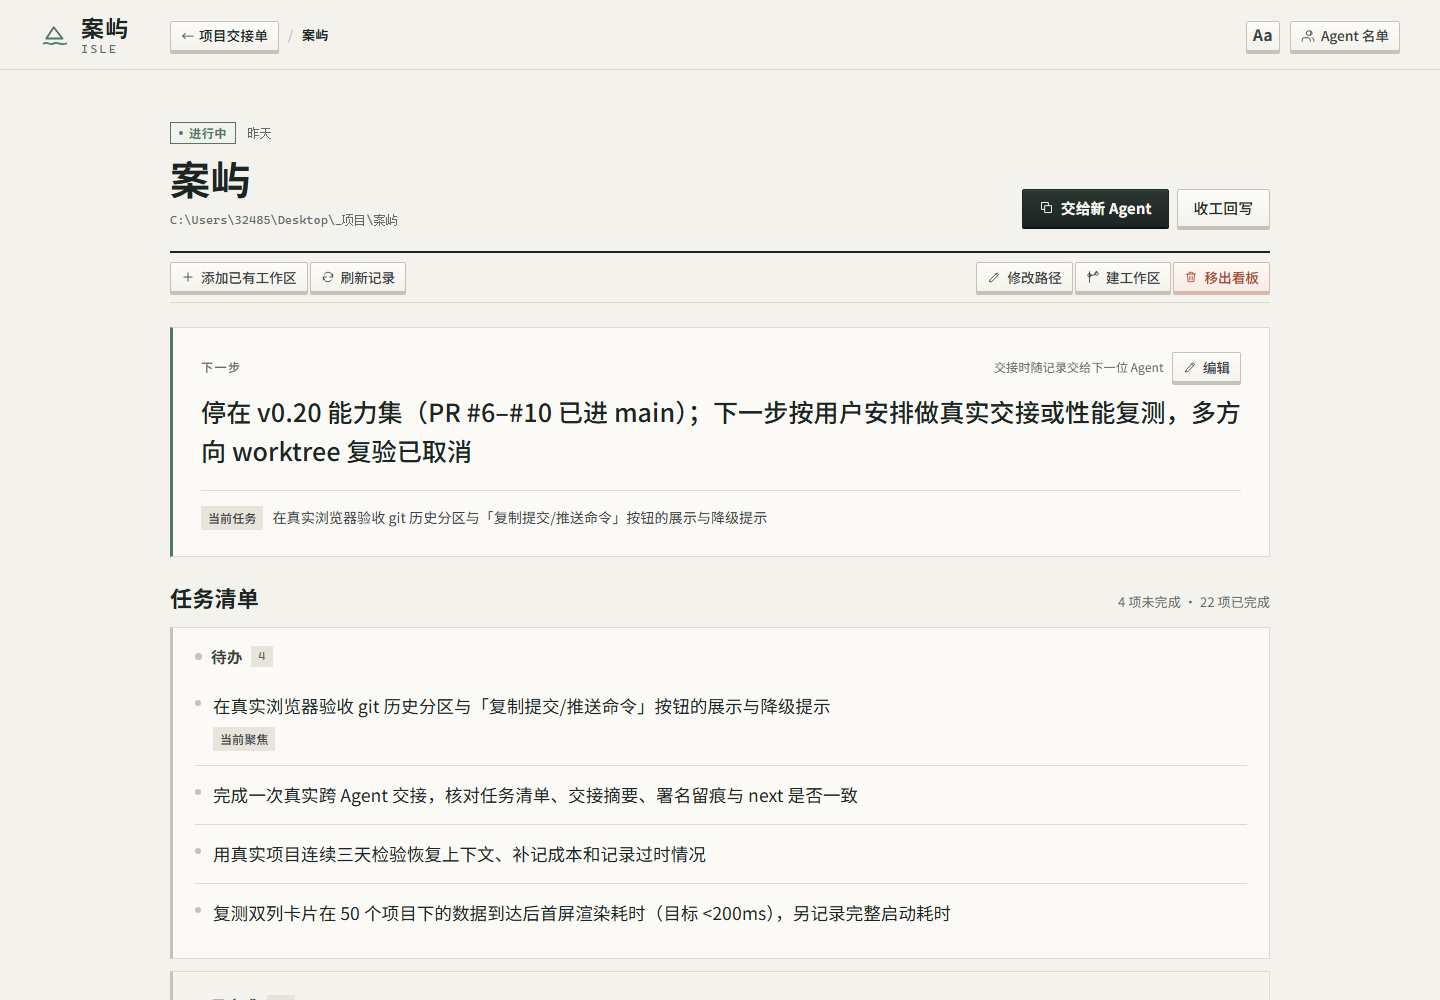
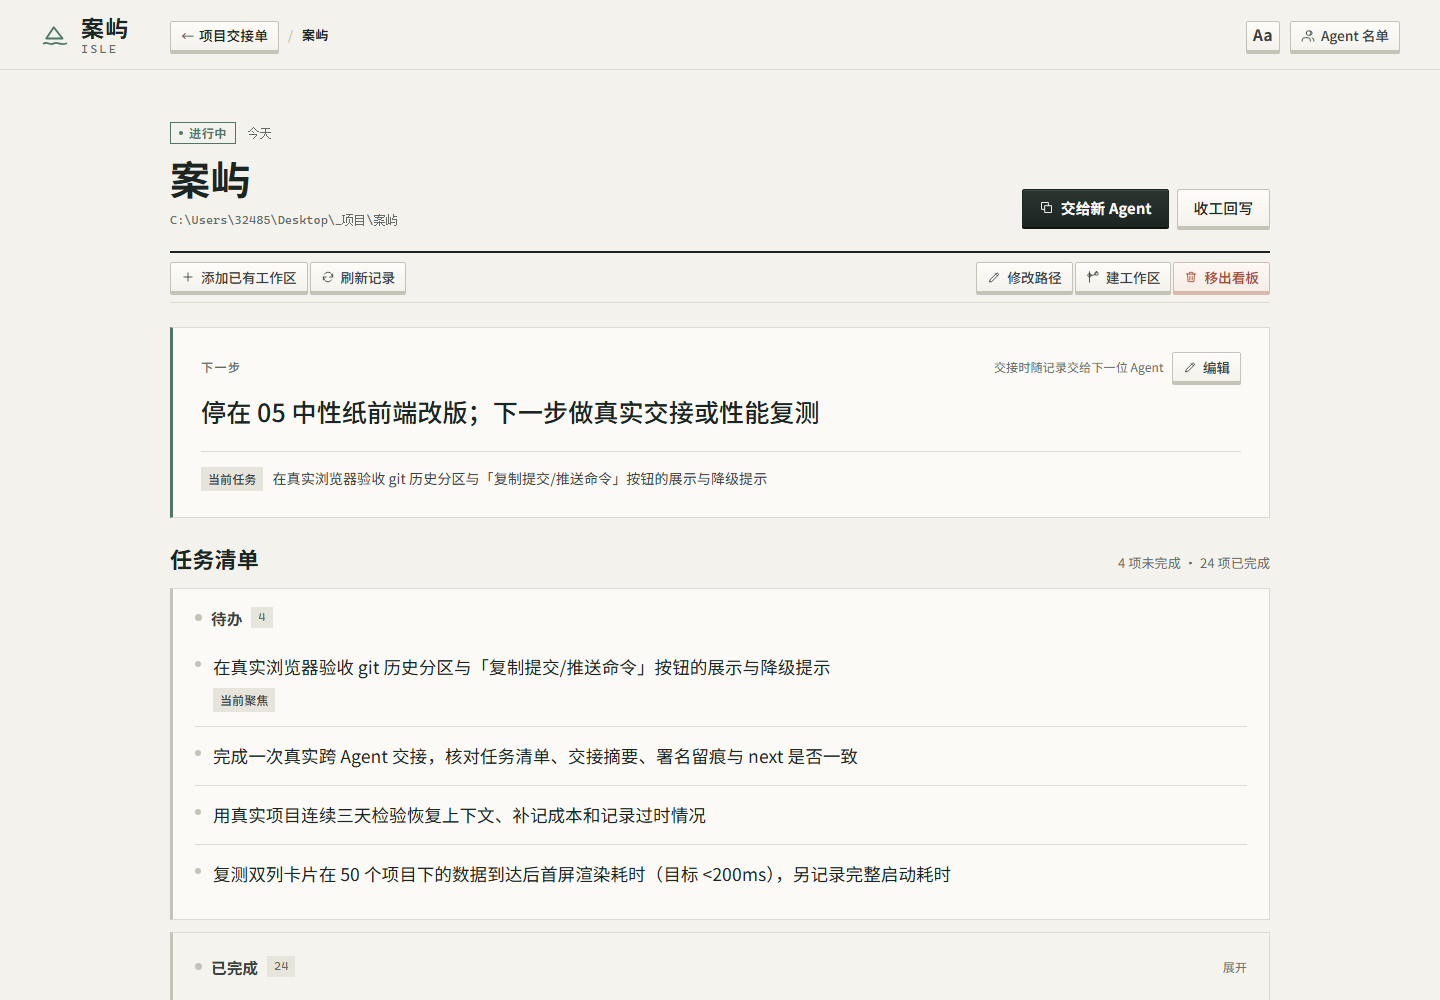
fix(web): 工作留痕按日期倒序显示并校准记录顺序

diff --git a/src/main.tsx b/src/main.tsx
@@ -3,6 +3,7 @@ import { createRoot } from 'react-dom/client';
 import type { GitHistory, Project, ProjectSkill, Snapshot, TaskState, Workspace, Workspaces } from '../shared/types.ts';
 import { closeout, focusTask, handoff, skillTransfer, worktrees } from '../shared/types.ts';
 import { SummaryMarkdown } from './SummaryMarkdown.ts';
+import { orderHistory } from './history.ts';
 import styles from './App.module.css';
 
 class RequestError extends Error {
@@ -192,6 +193,15 @@ function App() {
     groupTotals.set(key, (groupTotals.get(key) ?? 0) + 1);
   }
   const currentGroup = current?.group ? { label: groupLabel(projects, current.group), count: projects.filter(project => project.group === current.group).length, role: current.role } : null;
+  const historyView = current?.history ? orderHistory(current.history) : null;
+  const historyHint = historyView?.parsed
+    ? historyView.outOfOrder ? '按日期倒序 · 文件顺序已校准' : '按日期倒序 · 原文顺序保留'
+    : '按次追加 · Agent 自述';
+  const historyHintTitle = historyView?.parsed
+    ? historyView.outOfOrder
+      ? 'TASKS.md 原文顺序与日期不一致，界面已按日期倒序显示；原文未改。'
+      : '界面按日期倒序显示；TASKS.md 原文保留原顺序。'
+    : '按文件追加顺序显示。';
   const boardGroups = (() => {
     const buckets = new Map<string, Project[]>();
     for (const project of visible) {
@@ -692,8 +702,8 @@ function App() {
             </form> : current.summary ? <div className={styles.markdown}><SummaryMarkdown text={current.summary} /></div> : <p className={styles.summaryEmpty}>收工时，把收工词发给当前 Agent，回写后刷新。也可以在这里手动补记。</p>}
           </section>}
           {current.state === 'ok' && <section className={`${styles.summaryCard} ${styles.historyCard}`} aria-label="工作留痕">
-            <div className={styles.summaryHeading}><h2>工作留痕</h2><span className={styles.historyHint}>按次追加 · Agent 自述</span></div>
-            {current.history ? <div className={styles.markdown}><SummaryMarkdown text={current.history} /></div> : <p className={styles.summaryEmpty}>暂无留痕。收工时选择署名，让 Agent 追加本次推进和验证结果；未完成的工作也可以记录。</p>}
+            <div className={styles.summaryHeading}><h2>工作留痕</h2><span className={`${styles.historyHint} ${historyView?.outOfOrder ? styles.historyAdjusted : ''}`.trim()} title={historyHintTitle}>{historyHint}</span></div>
+            {current.history ? <div className={styles.markdown}><SummaryMarkdown text={historyView?.text ?? current.history} /></div> : <p className={styles.summaryEmpty}>暂无留痕。收工时选择署名，让 Agent 追加本次推进和验证结果；未完成的工作也可以记录。</p>}
           </section>}
           {current.state === 'ok' && git.id === current.id && <section className={styles.gitCard} aria-label="Git 历史">
             <div className={styles.summaryHeading}><h2>Git 历史</h2><div className={styles.transferActions}><button className={styles.quietButton} disabled={busy || git.loading} onClick={() => void loadGit(current)}><Icon name="refresh" size={14} />刷新</button><button className={styles.quietButton} disabled={busy} onClick={() => void copyGit(current)}><Icon name="copy" size={14} />复制提交/推送命令</button></div></div>

diff --git a/test/history.test.ts b/test/history.test.ts
@@ -1,0 +1,53 @@
+import test from 'node:test';
+import assert from 'node:assert/strict';
+import { orderHistory } from '../src/history.ts';
+
+test('work trail is displayed newest first and keeps same-day order', () => {
+  const input = [
+    '- 2026-10-19 · Hanako：较早的一条。',
+    '- 2026-10-18 · Hanako：更早的一条。',
+    '- 2026-10-19 · DeepSeek Harness：同日的后一条。',
+    '- 2026-10-20 · Codex：较新的一条。',
+  ].join('\n');
+  const result = orderHistory(input);
+  assert.equal(result.parsed, true);
+  assert.equal(result.outOfOrder, true);
+  assert.deepEqual(result.text.split('\n'), [
+    '- 2026-10-20 · Codex：较新的一条。',
+    '- 2026-10-19 · Hanako：较早的一条。',
+    '- 2026-10-19 · DeepSeek Harness：同日的后一条。',
+    '- 2026-10-18 · Hanako：更早的一条。',
+  ]);
+});
+
+test('ascending append order is reversed for display without being flagged', () => {
+  const result = orderHistory('- 2026-10-17 · A：旧。\n- 2026-10-24 · B：新。');
+  assert.equal(result.parsed, true);
+  assert.equal(result.outOfOrder, false);
+  assert.equal(result.text, '- 2026-10-24 · B：新。\n- 2026-10-17 · A：旧。');
+});
+
+test('already newest-first history remains stable', () => {
+  const input = '- 2026-10-24 · A：新。\n- 2026-10-23 · B：旧。';
+  const result = orderHistory(input);
+  assert.equal(result.parsed, true);
+  assert.equal(result.outOfOrder, false);
+  assert.equal(result.text, input);
+});
+
+test('history with headings or prose is left untouched', () => {
+  const input = '### 备注\n- 2026-10-17 · Codex：部分推进；未验证。';
+  const result = orderHistory(input);
+  assert.equal(result.parsed, false);
+  assert.equal(result.outOfOrder, false);
+  assert.equal(result.text, input);
+});
+
+test('empty and single-entry history are left untouched', () => {
+  assert.deepEqual(orderHistory(''), { text: '', parsed: false, outOfOrder: false });
+  assert.deepEqual(orderHistory('- 2026-10-17 · A：唯一一条。'), {
+    text: '- 2026-10-17 · A：唯一一条。',
+    parsed: false,
+    outOfOrder: false,
+  });
+});

diff --git a/src/history.ts b/src/history.ts
@@ -1,0 +1,27 @@
+export type HistoryOrder = {
+  text: string;
+  parsed: boolean;
+  outOfOrder: boolean;
+};
+
+const entryPattern = /^- (\d{4}-\d{2}-\d{2}) · /;
+
+// The file stays append-only; only the rendered work trail is ordered by date.
+export function orderHistory(text: string): HistoryOrder {
+  const lines = text.split(/\r?\n/);
+  const entries = lines
+    .map((line, index) => {
+      const match = line.match(entryPattern);
+      return match ? { line, date: match[1], index } : null;
+    })
+    .filter((entry): entry is { line: string; date: string; index: number } => entry !== null);
+
+  if (entries.length < 2 || entries.length !== lines.filter(line => line.trim()).length) {
+    return { text, parsed: false, outOfOrder: false };
+  }
+
+  const ascending = entries.every((entry, index) => index === 0 || entry.date >= entries[index - 1].date);
+  const descending = entries.every((entry, index) => index === 0 || entry.date <= entries[index - 1].date);
+  const sorted = [...entries].sort((a, b) => b.date.localeCompare(a.date) || a.index - b.index);
+  return { text: sorted.map(entry => entry.line).join('\n'), parsed: true, outOfOrder: !ascending && !descending };
+}

diff --git a/src/App.module.css b/src/App.module.css
@@ -812,6 +812,7 @@
 .summaryHeading .textButton { display: inline-flex; align-items: center; gap: 5px; }
 .historyHint { color: var(--muted); font-size: 12px; }
 .projectPage .historyHint { color: var(--muted); font-size: 12px; }
+.historyAdjusted { color: var(--olive); }
 .markdown, .projectPage .markdown {
   max-height: none;
   overflow: visible;

diff --git a/TASKS.md b/TASKS.md
@@ -8,7 +8,8 @@ updated: 2026-10-24
 
 ### 2026-10-24 中性纸看板与字号设置
 - 变更：前端改为 05 中性纸 + B 交接单结构；详情加项目头/工具条；新增字号三档与 Aa 设置；补纸键、轻动效和面包屑按钮。
-- 验证：check／38 测试／build 通过；生产构建 1440／1024／390／320 无控制台错误与横向溢出；字号持久化、reduced-motion 通过。
+- 变更：工作留痕按日期倒序显示；原文保留追加顺序，文件乱序时提示已校准。
+- 验证：check／43 测试／build 通过；生产构建 1440／1024／390／320 无控制台错误与横向溢出；字号持久化、reduced-motion 通过。
 - 未验证：真实用户验收、真实跨 Agent 交接、50 项目性能；详情折叠与搜索未做。
 
 ### 2026-10-23 项目 Skill 可升级
@@ -77,16 +78,17 @@ updated: 2026-10-24
 - [x] 离线项目支持在卡片上「移出看板」，修复目录已删除时失效条目删不掉
 - [x] 项目 Skill 支持按已发布哈希升级官方旧版，「安装／补齐」按钮变为「升级」
 - [x] 完成 05 中性纸看板与详情改版：项目头/工具条、可读性与可点击修整、字号设置、纸键与轻动效
+- [x] 工作留痕按日期倒序显示，原文保持追加顺序并在乱序时提示已校准
 
 ## 工作留痕
 
-- 2026-10-19 · Hanako：把提交与分支约定写入 README（PR #1），记录 v0.12／v0.13 合并流程；无代码改动，未跑测试。
-- 2026-10-18 · Hanako：起草并定稿实施文档审阅台 v0.13（§ 十四：第四类词、PLANS/ 白名单、退回词禁改代码），并把放行词／退回词改为短指令优先；仅文档，未跑测试。
 - 2026-10-17 · Codex：实现收工／开工交接、摘要 Markdown、Agent 名单与署名留痕、双列卡片与任务优先详情页、项目级 Skill 安装；build／测试（≤29 项）／隔离浏览器通过（至 9321a47）；真实 Skill 发现与回写未验证。
 - 2026-10-17 · DeepSeek Harness：定 git 历史预览与 push 边界并实现只读 git 接口、前端 Git 分区与复制命令；check／23 测试／build／HTTP 冒烟通过，未做真实浏览器验收。
+- 2026-10-18 · Hanako：起草并定稿实施文档审阅台 v0.13（§ 十四：第四类词、PLANS/ 白名单、退回词禁改代码），并把放行词／退回词改为短指令优先；仅文档，未跑测试。
+- 2026-10-19 · Hanako：把提交与分支约定写入 README（PR #1），记录 v0.12／v0.13 合并流程；无代码改动，未跑测试。
 - 2026-10-19 · DeepSeek Harness：与用户定并行方向用 git worktree、看板按主仓库分组（方案 c），写入设计文档 v0.14 § 十五；仅设计，未跑测试。
 - 2026-10-20 · DeepSeek Harness：实现按 worktree 自动分组（v0.8，PR #3），修复 submodule 误归组与键盘顺序；check／33 测试／build／隔离验收通过；同轮新增「建工作区」工作区词。
 - 2026-10-21 · Codex：实现已有工作区导入、项目外框与工作区网格（PR #6），整理 QQ-Agent 两方向隔离环境；36 测试／build／隔离与真机核对通过；独立运行与多 Agent 续接未验证。
 - 2026-10-22 · DeepSeek Harness：代收上一轮未提交实现并入 PR #6；补工作区词交付提醒（另开会话、忽略文件不随 worktree 复制）；check／36 测试／build／隔离浏览器通过。
 - 2026-10-23 · DeepSeek Harness：离线卡片加「移出看板」（PR #7）；Skill 加篇幅预算并压缩记录（PR #9）；Skill 按发布哈希升级官方旧版（PR #10）；38 测试与隔离浏览器通过。
-- 2026-10-24 · DeepSeek Harness：完成 05 中性纸看板与详情改版、字号设置、纸键与轻动效；38 测试／check／build／生产构建通过；真实用户验收与跨 Agent 交接未验证。
+- 2026-10-24 · DeepSeek Harness：完成 05 中性纸看板与详情改版、字号设置、纸键与轻动效；工作留痕按日期倒序显示并校准原文件顺序；43 测试／check／build／生产构建通过；真实用户验收与跨 Agent 交接未验证。

diff --git a/.design/direction-approved.md b/.design/direction-approved.md
@@ -180,3 +180,26 @@
 - `npm run check`、`npm test`（38 项）、`npm run build` 通过；生产构建无控制台错误；
 - 可点击审计仍为空；详情页 1440/390 无横向溢出；
 - 截图：`screenshots/production-detail-top-1440.png`。
+
+## 工作留痕排序（2026-10-24）
+
+现象：工作留痕在界面里是 10-19、10-18、10-17、10-17、10-19 后再递增，历史合并时打乱了顺序。
+
+判断：
+
+- `TASKS.md` 是追加式审计记录，不能让界面自动重写文件；多 Agent 并发时重排风险高。
+- 但界面不应信任文件顺序。采用**只读排序 + 原文保留**：界面按日期倒序显示，原文仍按追加顺序保存。
+- 只对全部是 `- YYYY-MM-DD · 署名：...` 单行条目的留痕排序；遇到标题、说明或多行内容则原样显示，避免误排。
+- 文件本身也做了一次人工校准：按日期升序重排，保持追加式约定。
+
+实现：
+
+- 新增 `src/history.ts`：解析条目、按日期倒序、同日保留原顺序，检测原文是否非单调。
+- 工作留痕卡片标题提示改为「按日期倒序 · 原文顺序保留」；原文乱序时显示「文件顺序已校准」并说明原文未改。
+- 新增 5 项单元测试；总测试数 43。
+- 截图：`screenshots/production-history-1440.png`。
+
+验证：
+
+- 43 项测试、check、build 通过；
+- 生产构建中留痕日期为 10-24 → 10-17 的倒序；提示为「按日期倒序 · 原文顺序保留」；无控制台错误。

diff --git a/.design/README.md b/.design/README.md
@@ -19,6 +19,8 @@
 
 **2026-10-24 面包屑按钮：** 详情页「← 项目交接单」从小号文字链接改为纸键按钮，保留面包屑语义；截图见 `screenshots/production-detail-top-1440.png`。
 
+**2026-10-24 工作留痕排序：** 界面按日期倒序显示留痕，原文保持追加顺序；原文非单调时提示已校准，不自动改写文件。截图见 `screenshots/production-history-1440.png`。
+
 打开 `index.html` 看选择页，或直接打开下面三个单文件。每个文件都可以切换项目、打开“交接”弹窗；其余未接入的流程只给诚实提示。
 
 ## 三个方向
